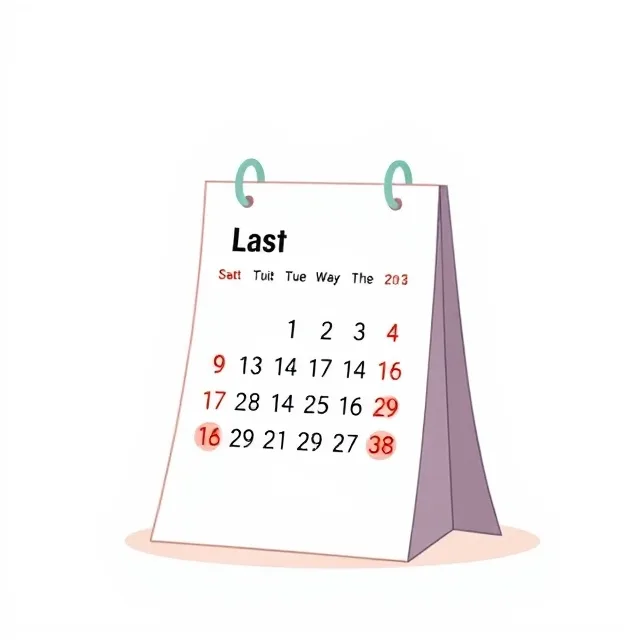
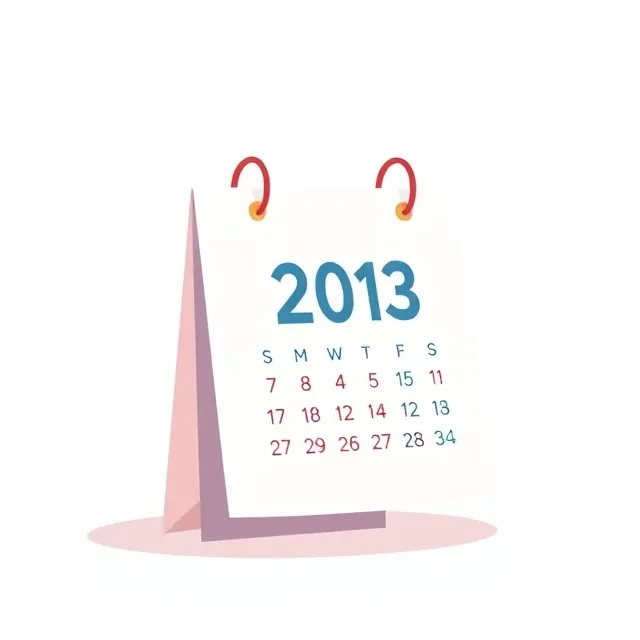
앱의 첫 화면이 한국어 로그인 벽이었다 — 베트남 사람은 한 글자도 못 읽었다
새 사람인 척 저장소를 비우고 앱을 열어 봤더니 첫 화면이 이랬다:
  로그인 / 아이디 (영문·숫자 4~20자) / 비밀번호 (8자 이상) /
  처음이세요? 가입하기 / 나중에 둘러보기
**전부 한국어다.** 한국어를 배우러 온 사람에게 한국어로 문을 잠가 둔 셈이다.
'나중에 둘러보기'로 건너뛸 수 있는데 그 글자조차 못 읽으니 건너뛸 수도 없다.

번역은 이미 다 있었다. S.ui 가 'ko' 로 시작하는 것만 문제였다.
· 처음 여는 사람은 **폰 언어**로 화면 말을 정한다(navigator.languages).
· 그것만으로는 모자란다 — 베트남 사람이 영어 폰이나 한국어 폰을 쓸 수 있다.
  그래서 **로그인 화면에만** 말 고르기 단추를 나란히 뒀다. 읽지 못해도 누를 수 있게.
  설정 안에 숨겨 두면 못 찾는다.
· 입력칸 안내글(placeholder)과 아래 안내 세 줄도 번역이 안 걸리고 있었다 —
  tr() 로 감싸고 베트남어를 8줄 넣었다.
· 화면을 열어 눌러 보고 전부 베트남어로 바뀌는 것을 확인했다.

Changed region(s): [[0.125, 0.2188, 0.8438, 0.9062]]

diff --git a/app.js b/app.js
@@ -10,6 +10,19 @@ const KEY = 'vnstudy.v2';
 const S = Object.assign({ voice: 'f', region: 'n', kr: 'show', done: {}, srs: {},
                           qbank: {}, act: {}, stats: {} },
   JSON.parse(localStorage.getItem(KEY) || '{}'));
+
+/* 처음 여는 사람의 화면 말을 **폰 언어로** 정한다.
+   이걸 안 하면 베트남 사람이 앱을 열자마자 만나는 것이 한국어 로그인 화면이다 —
+   아이디도 비밀번호도 '나중에 둘러보기'도 다 한국어라 **한 글자도 못 읽는다.**
+   한국어를 배우러 온 사람에게 한국어로 문을 잠가 놓은 셈이었다.
+   번역은 이미 다 있었고, S.ui 가 'ko' 로 시작하는 것만 문제였다.
+   한 번 정해 두면 그다음부터는 본인이 고른 값을 따른다(설정에서 바꿀 수 있다). */
+if (!S.ui) {
+  const langs = (navigator.languages && navigator.languages.length
+    ? navigator.languages : [navigator.language || '']).join(',').toLowerCase();
+  S.ui = /(^|,)vi\b/.test(langs) ? 'vi' : 'ko';
+  try { localStorage.setItem(KEY, JSON.stringify(S)); } catch (e) { }
+}
 let saveWarned = false;
 function save() {
   try {
@@ -492,6 +505,18 @@ const UIVI = {
   '메신저': 'Tin nhắn', '내 정보': 'Của tôi', '이름': 'Tên', '지역': 'Vùng miền',
   '계정': 'Tài khoản', '로그인': 'Đăng nhập', '가입': 'Đăng ký', '로그아웃': 'Đăng xuất',
   '로그인·가입': 'Đăng nhập / Đăng ký', '배울 언어': 'Ngôn ngữ học', '보호권': 'Khiên bảo vệ',
+  '아이디로 어느 폰에서든 <b>내 별명·동아리</b>가 따라옵니다.':
+    'Đăng nhập để <b>biệt danh và câu lạc bộ</b> của bạn theo bạn trên mọi điện thoại.',
+  '<b>처음 오셨군요!</b> 1분이면 됩니다 — 별명과 아이디만 정하면 끝.':
+    '<b>Chào bạn mới!</b> Chỉ mất 1 phút — chọn biệt danh và tên đăng nhập là xong.',
+  '· 서버에는 비밀번호의 <b>으깬 값(해시)</b>만 남습니다 — 원문은 저장하지 않습니다.':
+    '· Máy chủ chỉ lưu <b>bản mã hóa</b> của mật khẩu — không lưu mật khẩu gốc.',
+  '· 이메일이 없어 비밀번호를 잊으면 <b>되찾을 수 없습니다.</b>':
+    '· Không có email nên nếu quên mật khẩu thì <b>không lấy lại được.</b>',
+  '· 학습 진도는 <b>자동으로 서버에 저장</b>됩니다 — 폰을 바꿔도 아이디로 들어오면 이어집니다.':
+    '· Tiến độ học <b>tự động lưu lên máy chủ</b> — đổi điện thoại vẫn học tiếp được.',
+  '비밀번호 (8자 이상)': 'Mật khẩu (từ 8 ký tự)',
+  '별명': 'Biệt danh',
   '서버 진도': 'Tiến độ trên máy chủ', '나중에 둘러보기': 'Xem sau', '처음이세요? 가입하기': 'Lần đầu? Đăng ký', '이미 계정이 있어요 — 로그인': 'Đã có tài khoản — Đăng nhập', '가입하기': 'Đăng ký', '로그인': 'Đăng nhập', '회원가입': 'Đăng ký', '뭐예요?': 'Là gì?',
   '동아리 만들기': 'Tạo câu lạc bộ', '다른 동아리 보기': 'Xem CLB khác', '동아리 탈퇴': 'Rời CLB',
   '동아리 사람들': 'Thành viên CLB', '오늘 한 줄': 'Một dòng hôm nay', '이번 주 출석': 'Điểm danh tuần này',
@@ -1606,17 +1631,29 @@ function acctForm(gate, mode) {
   mode = mode || 'login';                 // 로그인과 가입은 딴 화면 — 섞어 두면 헷갈린다 (사용자 지시)
   const b = $('#subBody');
   b.textContent = '';
-  b.append(el('p', 'lede', mode === 'login'
+  /* 말 고르기 — **이 화면에만** 둔다.
+     여기가 앱의 문이다. 폰 언어로 짐작해 두긴 하지만(위 S.ui 기본값) 베트남 사람이
+     영어 폰이나 한국어 폰을 쓸 수도 있다. 그러면 한국어를 배우러 온 사람이
+     한국어로 잠긴 문 앞에 선다. 그래서 여기서만은 **읽지 못해도 누를 수 있게**
+     두 나라 말을 나란히 놓는다(설정 안에 숨겨 두면 못 찾는다). */
+  const langRow = el('div', 'langpick');
+  [['ko', '한국어'], ['vi', 'Tiếng Việt']].forEach(([v, name]) => {
+    const t = el('button', 'langbtn' + (S.ui === v ? ' on' : ''), esc(name));
+    t.onclick = () => { S.ui = v; save(); acctForm(gate, mode); };
+    langRow.append(t);
+  });
+  b.append(langRow);
+  b.append(el('p', 'lede', tr(mode === 'login'
     ? '아이디로 어느 폰에서든 <b>내 별명·동아리</b>가 따라옵니다.'
-    : '<b>처음 오셨군요!</b> 1분이면 됩니다 — 별명과 아이디만 정하면 끝.'));
+    : '<b>처음 오셨군요!</b> 1분이면 됩니다 — 별명과 아이디만 정하면 끝.')));
   // 별명이 아직 없으면(첫 방문 가입) 여기서 같이 정한다 — 가입에 별명이 필요해서다
   const nickIn = el('input', 'keyin'); nickIn.type = 'text'; nickIn.maxLength = 10;
   nickIn.placeholder = '별명 (2~10자) — 순위·동아리에 보입니다';
-  const id = el('input', 'keyin'); id.type = 'text'; id.placeholder = '아이디 (영문·숫자 4~20자)';
+  const id = el('input', 'keyin'); id.type = 'text'; id.placeholder = tr('아이디 (영문·숫자 4~20자)');
   id.autocapitalize = 'none'; id.maxLength = 20;
   const pw = el('input', 'keyin'); pw.type = 'password';
   // 비밀번호 규칙은 NIST 지침대로: 길이만 본다(8자+). 특수문자 강제는 뻔한 변형만 낳는다.
-  pw.placeholder = '비밀번호 (8자 이상)'; pw.maxLength = 64;
+  pw.placeholder = tr('비밀번호 (8자 이상)'); pw.maxLength = 64;
 
   /* 가입 화면에만 나오는 것들 — 국적과 배울 언어 */
   const profBox = el('div', 'profbox');
@@ -1710,7 +1747,7 @@ function acctForm(gate, mode) {
   main.style.width = '100%';
   main.onclick = go(mode === 'login' ? 'login' : 'signup');
   bs.append(main);
-  if (!S.nick) profBox.append(el('p', 'note', '별명'), nickIn);
+  if (!S.nick) profBox.append(el('p', 'note', tr('별명')), nickIn);
   if (mode === 'login') b.append(id, pw, err, bs);
   else b.append(profBox, id, pw, err, bs);
   // 두 화면 사이를 오가는 문
@@ -1727,9 +1764,9 @@ function acctForm(gate, mode) {
                             if (!S.nick) { askNick(); return; } renderHome(); };
     b.append(later);
   }
-  b.append(el('p', 'note', '· 서버에는 비밀번호의 <b>으깬 값(해시)</b>만 남습니다 — 원문은 저장하지 않습니다.<br>' +
-    '· 이메일이 없어 비밀번호를 잊으면 <b>되찾을 수 없습니다.</b><br>' +
-    '· 학습 진도는 <b>자동으로 서버에 저장</b>됩니다 — 폰을 바꿔도 아이디로 들어오면 이어집니다.'));
+  b.append(el('p', 'note', tr('· 서버에는 비밀번호의 <b>으깬 값(해시)</b>만 남습니다 — 원문은 저장하지 않습니다.') + '<br>' +
+    tr('· 이메일이 없어 비밀번호를 잊으면 <b>되찾을 수 없습니다.</b>') + '<br>' +
+    tr('· 학습 진도는 <b>자동으로 서버에 저장</b>됩니다 — 폰을 바꿔도 아이디로 들어오면 이어집니다.')));
   show('sub', mode === 'login' ? tr('로그인') : tr('회원가입'), true);
 }
 

diff --git a/style.css b/style.css
@@ -1546,3 +1546,10 @@ button.wex{width:100%; background:transparent; color:var(--fg); font:inherit; cu
 /* 공통문항 — 회차끼리 견줄 수 있는 유일한 숫자라 눈에 띄어야 한다 */
 .anchor{border-left:3px solid var(--accent); margin-top:14px}
 .anch{font-size:19px; font-weight:800}
+
+/* 로그인 화면의 말 고르기 — 여기가 앱의 문이다. 읽지 못해도 누를 수 있어야 한다. */
+.langpick{display:flex; gap:8px; justify-content:center; margin:0 0 16px}
+.langbtn{padding:7px 16px; border-radius:999px; border:1px solid var(--line);
+  background:var(--bg); color:var(--dim); font-size:14px; cursor:pointer}
+.langbtn.on{border:2px solid var(--accent); color:var(--ink); font-weight:700;
+  background:color-mix(in srgb,var(--accent) 10%,transparent)}

diff --git a/index.html b/index.html
@@ -11,7 +11,7 @@
 <meta name="apple-mobile-web-app-title" content="짜오짜오">
 <meta name="mobile-web-app-capable" content="yes">
 <title>짜오짜오 — 베트남어</title>
-<link rel="stylesheet" href="style.css?v=ae5da2a9">
+<link rel="stylesheet" href="style.css?v=950c5737">
 </head>
 <body>
 
@@ -145,7 +145,7 @@
   </section>
 </main>
 
-<script src="pitch.js?v=ae5da2a9"></script>
-<script src="app.js?v=ae5da2a9"></script>
+<script src="pitch.js?v=950c5737"></script>
+<script src="app.js?v=950c5737"></script>
 </body>
 </html>

diff --git a/sw.js b/sw.js
@@ -1,7 +1,7 @@
 /* 오프라인 캐시.
    앱 껍데기와 커리큘럼은 처음 열 때 통째로 받아두고,
    음성은 22MB나 되므로 한 번 재생한 것만 캐시에 남긴다 (데이터 요금 배려). */
-const V = 'vn-ae5da2a9';
+const V = 'vn-950c5737';
 const SHELL = ['./', './index.html', './app.js', './pitch.js', './style.css',
                './manifest.json', './icon.png',
                './data/days.json', './data/audio_index.json'];
